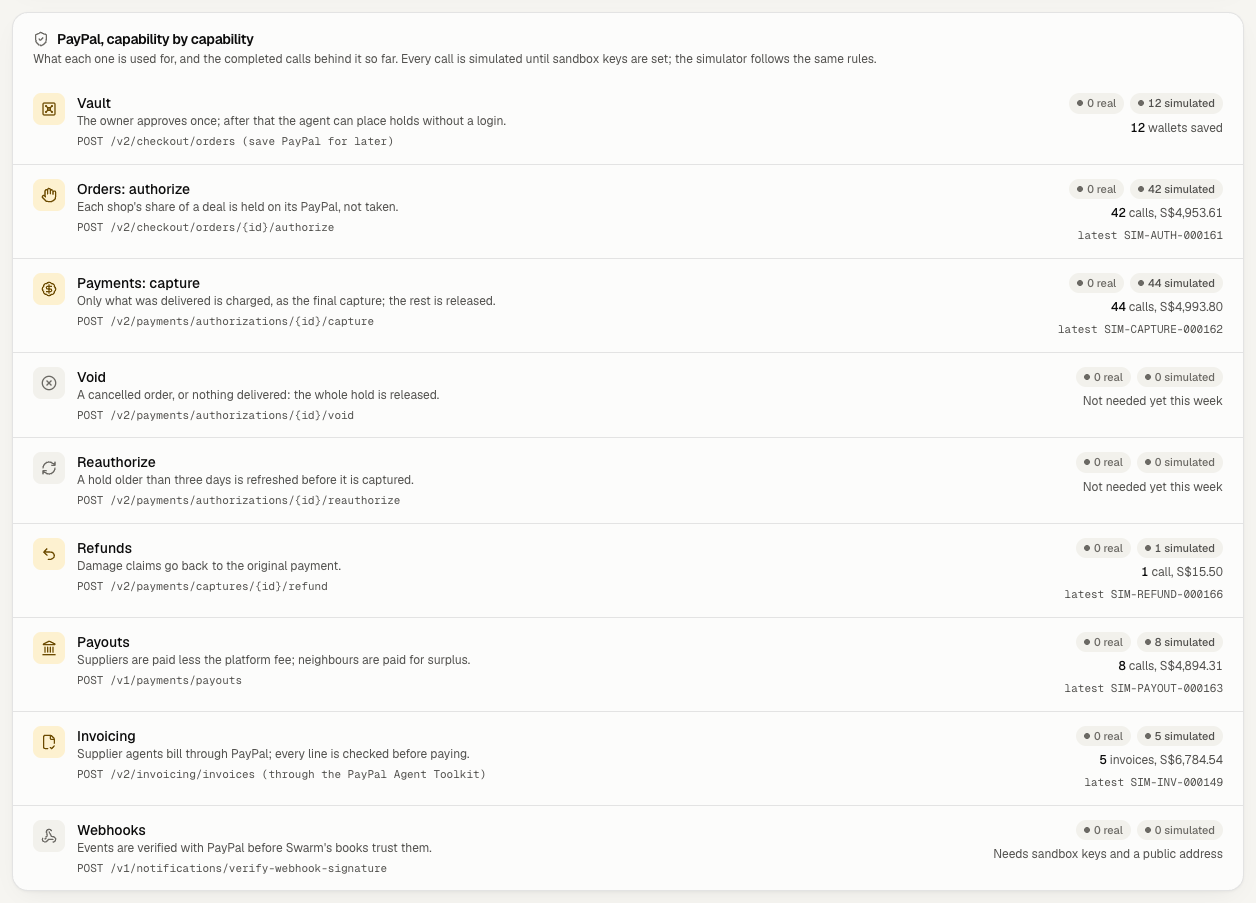
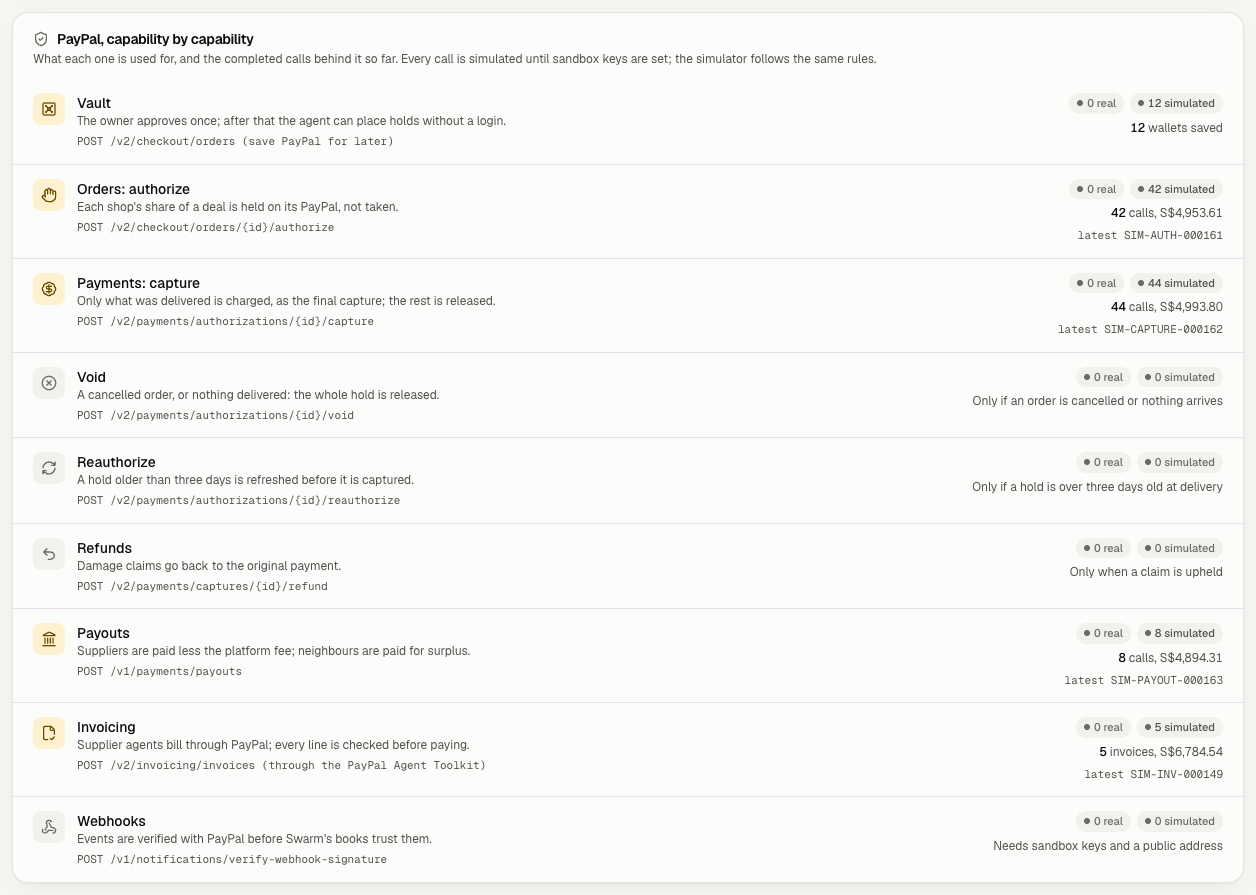
suppliers page: the week's scoreboard, order by order
One row per group order, one column per supplier: each supplier's final landed price,
who won, how far behind the others finished, and what negotiating took off the opening
price. README screenshots for it and for a claim waiting for a person.

diff --git a/frontend/components/directories.tsx b/frontend/components/directories.tsx
@@ -2,14 +2,23 @@
 
 /** The shop and supplier directories. */
 
-import { ChevronRight, Gauge, Truck } from "lucide-react";
+import { ChevronRight, Gauge, Swords, Truck } from "lucide-react";
 import Link from "next/link";
 import useSWR from "swr";
 
-import { Card, Empty, Meter, ModeBadge, Status, StatusPill } from "@/components/ui";
-import type { ShopSummary, SupplierSummary } from "@/lib/api";
-import { CATEGORY_EMOJI, initials, money, moneyWhole, slotColor, titleCase } from "@/lib/format";
+import { Card, CardHeader, cx, Empty, Meter, ModeBadge, Status, StatusPill } from "@/components/ui";
+import type { GroupOrder, ShopSummary, SupplierSummary } from "@/lib/api";
+import {
+  CATEGORY_EMOJI,
+  CATEGORY_LABEL,
+  initials,
+  money,
+  moneyWhole,
+  slotColor,
+  titleCase,
+} from "@/lib/format";
 import { useLive } from "@/lib/live";
+import { outcomeFor } from "@/lib/negotiation";
 import { useNow } from "@/lib/use-now";
 
 export function ShopDirectory() {
@@ -146,6 +155,7 @@ export function ShopDirectory() {
 
 export function SupplierDirectory() {
   const { data: suppliers } = useSWR<SupplierSummary[]>("/api/suppliers");
+  const { data: groups } = useSWR<GroupOrder[]>("/api/group-orders");
   return (
     <div className="mx-auto w-full max-w-7xl px-4 py-6 sm:px-6 sm:py-8">
       <h1 className="text-ink text-2xl font-semibold tracking-tight">Suppliers</h1>
@@ -203,6 +213,136 @@ export function SupplierDirectory() {
           </li>
         ))}
       </ul>
+      {suppliers && groups ? <Contests suppliers={suppliers} groups={groups} /> : null}
     </div>
+  );
+}
+
+/** The week's group orders, one per row: what each supplier's last quote was and who won. */
+function Contests({ suppliers, groups }: { suppliers: SupplierSummary[]; groups: GroupOrder[] }) {
+  return (
+    <Card className="mt-6">
+      <CardHeader
+        title="This week, order by order"
+        subtitle="Each supplier's final landed price for the whole street's order, delivery included. The lowest price from a reliable supplier wins."
+        icon={Swords}
+      />
+      {groups.length === 0 ? (
+        <div className="px-5 pb-5">
+          <Empty>
+            Nothing to compete for yet. The coordinator asks for quotes on Tuesday, once the
+            shops&apos; orders are pooled.
+          </Empty>
+        </div>
+      ) : (
+        <div
+          className="overflow-x-auto px-5 pb-5"
+          // Focusable, so the keyboard can scroll it sideways on a narrow screen.
+          tabIndex={0}
+          role="region"
+          aria-label="This week's quotes by supplier"
+        >
+          <table className="w-full min-w-[620px] border-separate border-spacing-0 text-sm">
+            <thead>
+              <tr>
+                <th scope="col" className="text-muted pb-2 text-left text-xs font-medium">
+                  Group order
+                </th>
+                {suppliers.map((supplier) => (
+                  <th
+                    key={supplier.code}
+                    scope="col"
+                    className="text-ink-2 pb-2 pl-4 text-right text-xs font-medium"
+                  >
+                    <span className="inline-flex items-center gap-1.5">
+                      <span
+                        className="h-2 w-2 rounded-full"
+                        style={{ background: slotColor(supplier.code) }}
+                        aria-hidden
+                      />
+                      {supplier.name}
+                    </span>
+                  </th>
+                ))}
+                <th scope="col" className="text-muted pb-2 pl-4 text-right text-xs font-medium">
+                  Won by negotiating
+                </th>
+              </tr>
+            </thead>
+            <tbody>
+              {groups.map((group) => {
+                const negotiated =
+                  group.opening_landed_cents && group.final_landed_cents
+                    ? group.opening_landed_cents - group.final_landed_cents
+                    : 0;
+                return (
+                  <tr key={group.id}>
+                    <th scope="row" className="border-line border-t py-3 text-left font-normal">
+                      <Link
+                        href={`/orders/${group.id}`}
+                        className="text-ink font-medium underline-offset-2 hover:underline"
+                      >
+                        <span aria-hidden>{CATEGORY_EMOJI[group.category] ?? "📦"} </span>
+                        {CATEGORY_LABEL[group.category] ?? group.category}
+                      </Link>
+                      <div className="text-muted text-xs">
+                        {group.shops} shops · {group.rounds}{" "}
+                        {group.rounds === 1 ? "round" : "rounds"}
+                      </div>
+                    </th>
+                    {suppliers.map((supplier) => {
+                      const outcome = outcomeFor(group, supplier.code);
+                      return (
+                        <td
+                          key={supplier.code}
+                          className="border-line border-t py-3 pl-4 text-right align-top"
+                        >
+                          {outcome === null ? (
+                            <span className="text-muted text-xs">Didn&apos;t quote</span>
+                          ) : (
+                            <>
+                              <div
+                                className={cx(
+                                  "tabular",
+                                  outcome.result === "won"
+                                    ? "text-ink font-semibold"
+                                    : "text-ink-2",
+                                )}
+                              >
+                                {money(outcome.final)}
+                              </div>
+                              <div className="mt-0.5 text-xs">
+                                {outcome.result === "won" ? (
+                                  <StatusPill tone="good">Won</StatusPill>
+                                ) : outcome.result === "open" ? (
+                                  <span className="text-muted">still quoting</span>
+                                ) : (
+                                  <span className="text-muted tabular">
+                                    {outcome.behindCents !== null
+                                      ? `${money(Math.max(0, outcome.behindCents))} more`
+                                      : "not chosen"}
+                                  </span>
+                                )}
+                              </div>
+                            </>
+                          )}
+                        </td>
+                      );
+                    })}
+                    <td className="border-line tabular border-t py-3 pl-4 text-right align-top">
+                      {negotiated > 0 ? (
+                        <span className="text-good-ink font-medium">{money(negotiated)}</span>
+                      ) : (
+                        <span className="text-muted">-</span>
+                      )}
+                    </td>
+                  </tr>
+                );
+              })}
+            </tbody>
+          </table>
+        </div>
+      )}
+    </Card>
   );
 }

diff --git a/README.md b/README.md
@@ -84,6 +84,8 @@ food out of the bin. It takes 94 PayPal calls, and the books balance to the cent
 | ![Inspector](docs/screenshots/inspector.png) | ![PayPal capabilities with the calls behind them](docs/screenshots/paypal-capabilities.png) |
 | **Invoice check (supplier page)** | **Dark mode** |
 | ![Invoices](docs/screenshots/supplier-invoices.png) | ![Dark](docs/screenshots/live-board-dark.png) |
+| **How the suppliers competed (Suppliers page)** | **A claim waiting for a person (Demo panel)** |
+| ![Each supplier's final price for every order, and who won](docs/screenshots/suppliers.png) | ![A damage claim with no photo, waiting for a person to refund or reject it](docs/screenshots/claim.png) |
 | **Weekly statement (as printed)** | **Phone** |
 | ![A shop's weekly statement](docs/screenshots/statement.png) | ![Phone](docs/screenshots/mobile-live.png) |
 

diff --git a/PROGRESS.md b/PROGRESS.md
@@ -951,3 +951,13 @@ phone-sized pages, each in light and dark: 42 checks.
 - Recorded a week with the claim added, jumped to Thursday's settlement on the watch page and
   watched the claim, the short payout and its caption play. 301 backend and 77 frontend tests.
 
+## Suppliers page: the week's scoreboard
+
+**Built**
+- **This week, order by order** on the Suppliers page: one row per group order, one column
+  per supplier, with each supplier's final landed price, who won, how far behind the others
+  finished, and what the negotiation took off the opening price. The last column adds up to
+  the "won by negotiating" figure on the live board (S$134.29 in the demo week).
+- README screenshots for the Suppliers page and a claim waiting for a person; the capability
+  table screenshot is refreshed.
+
